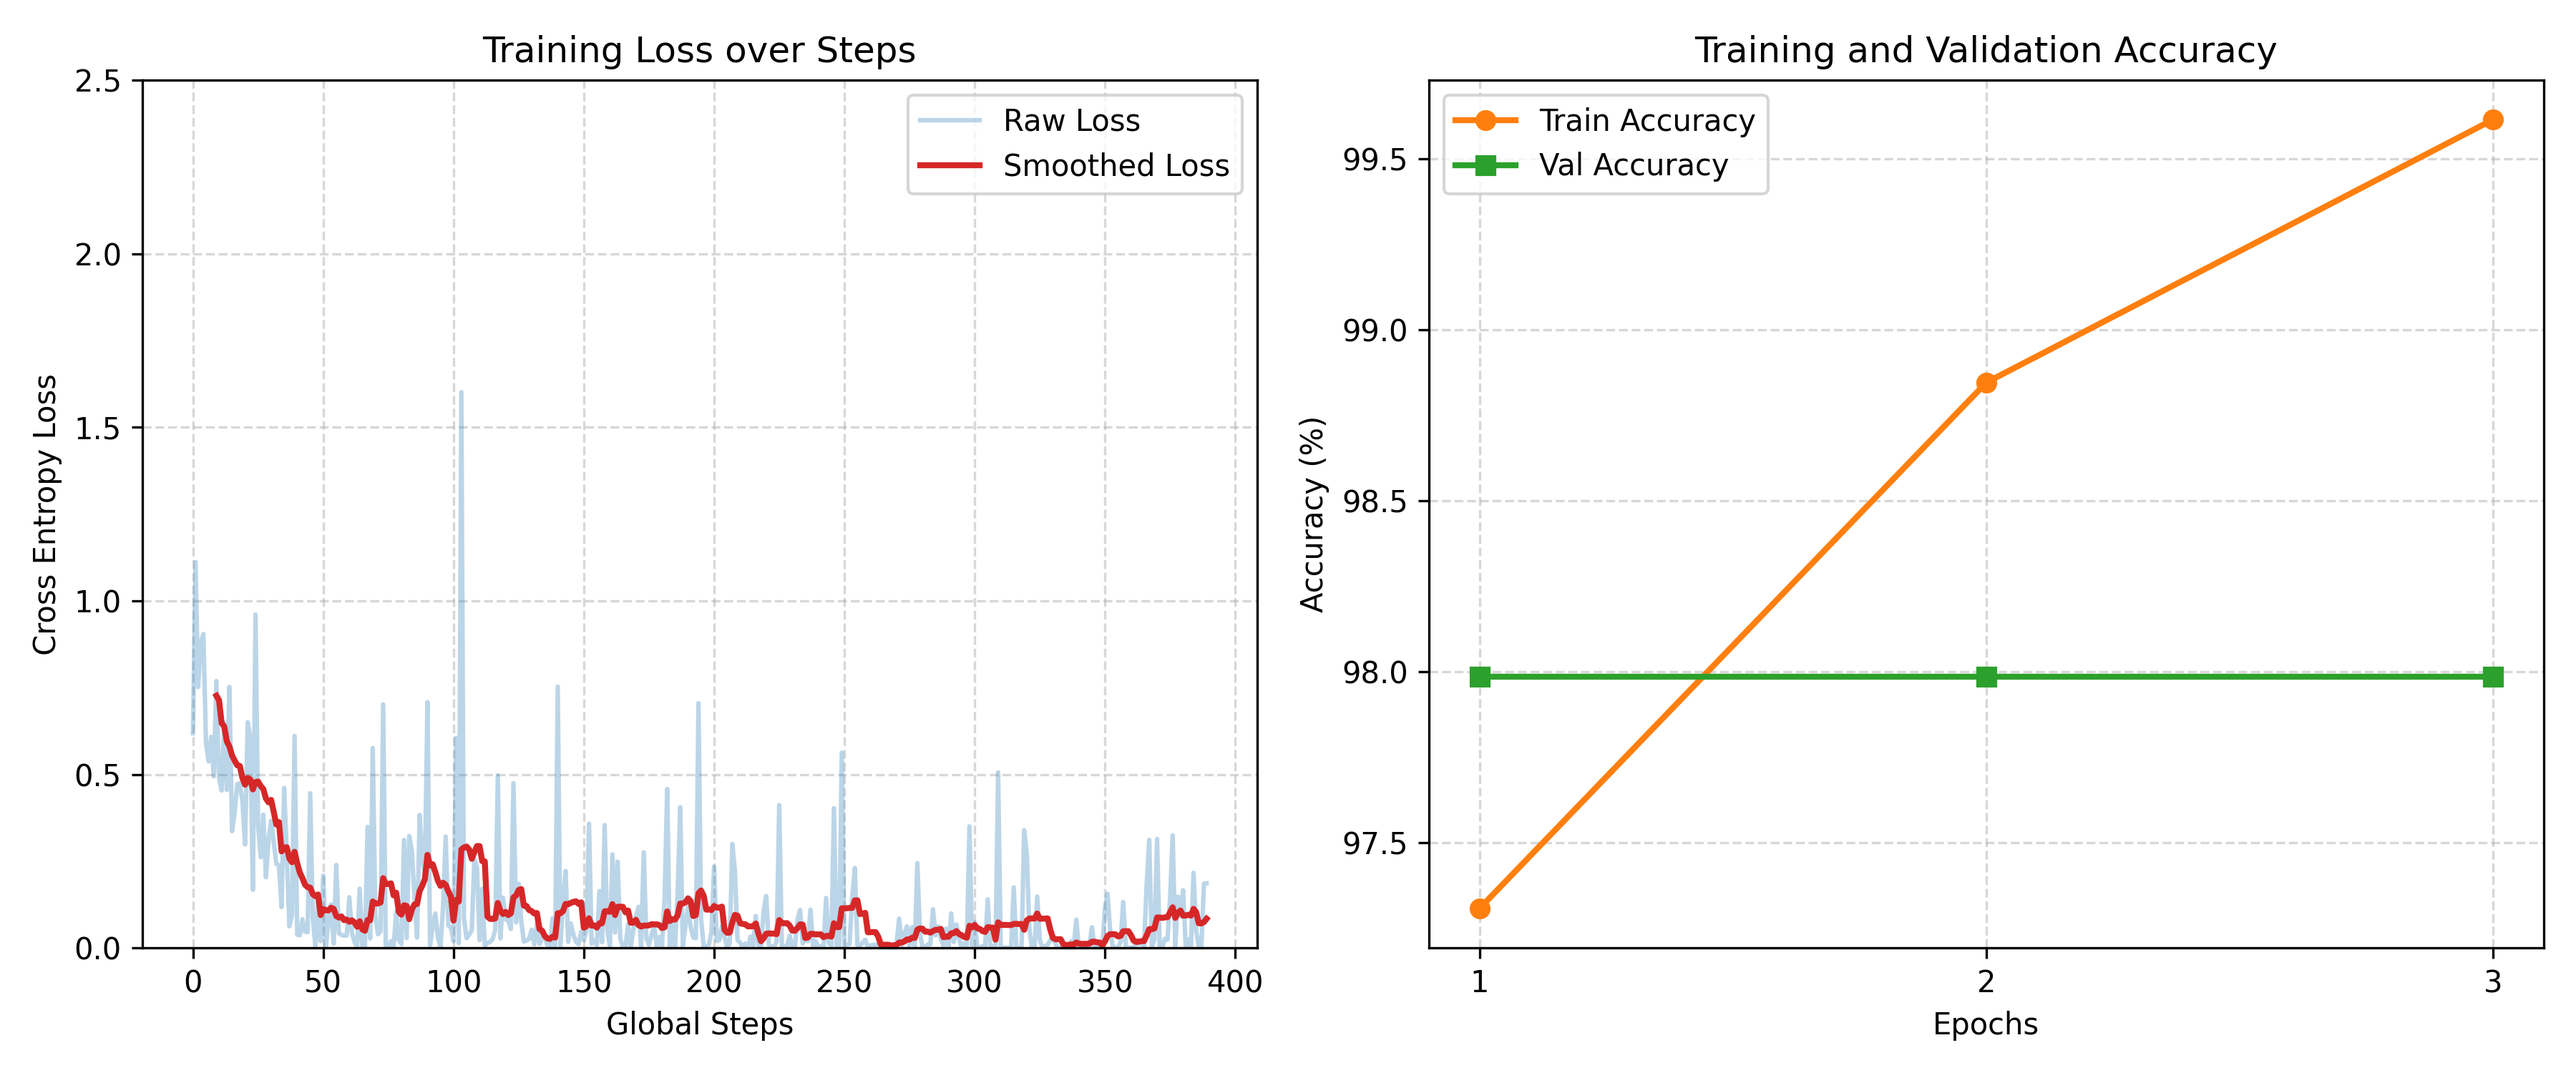
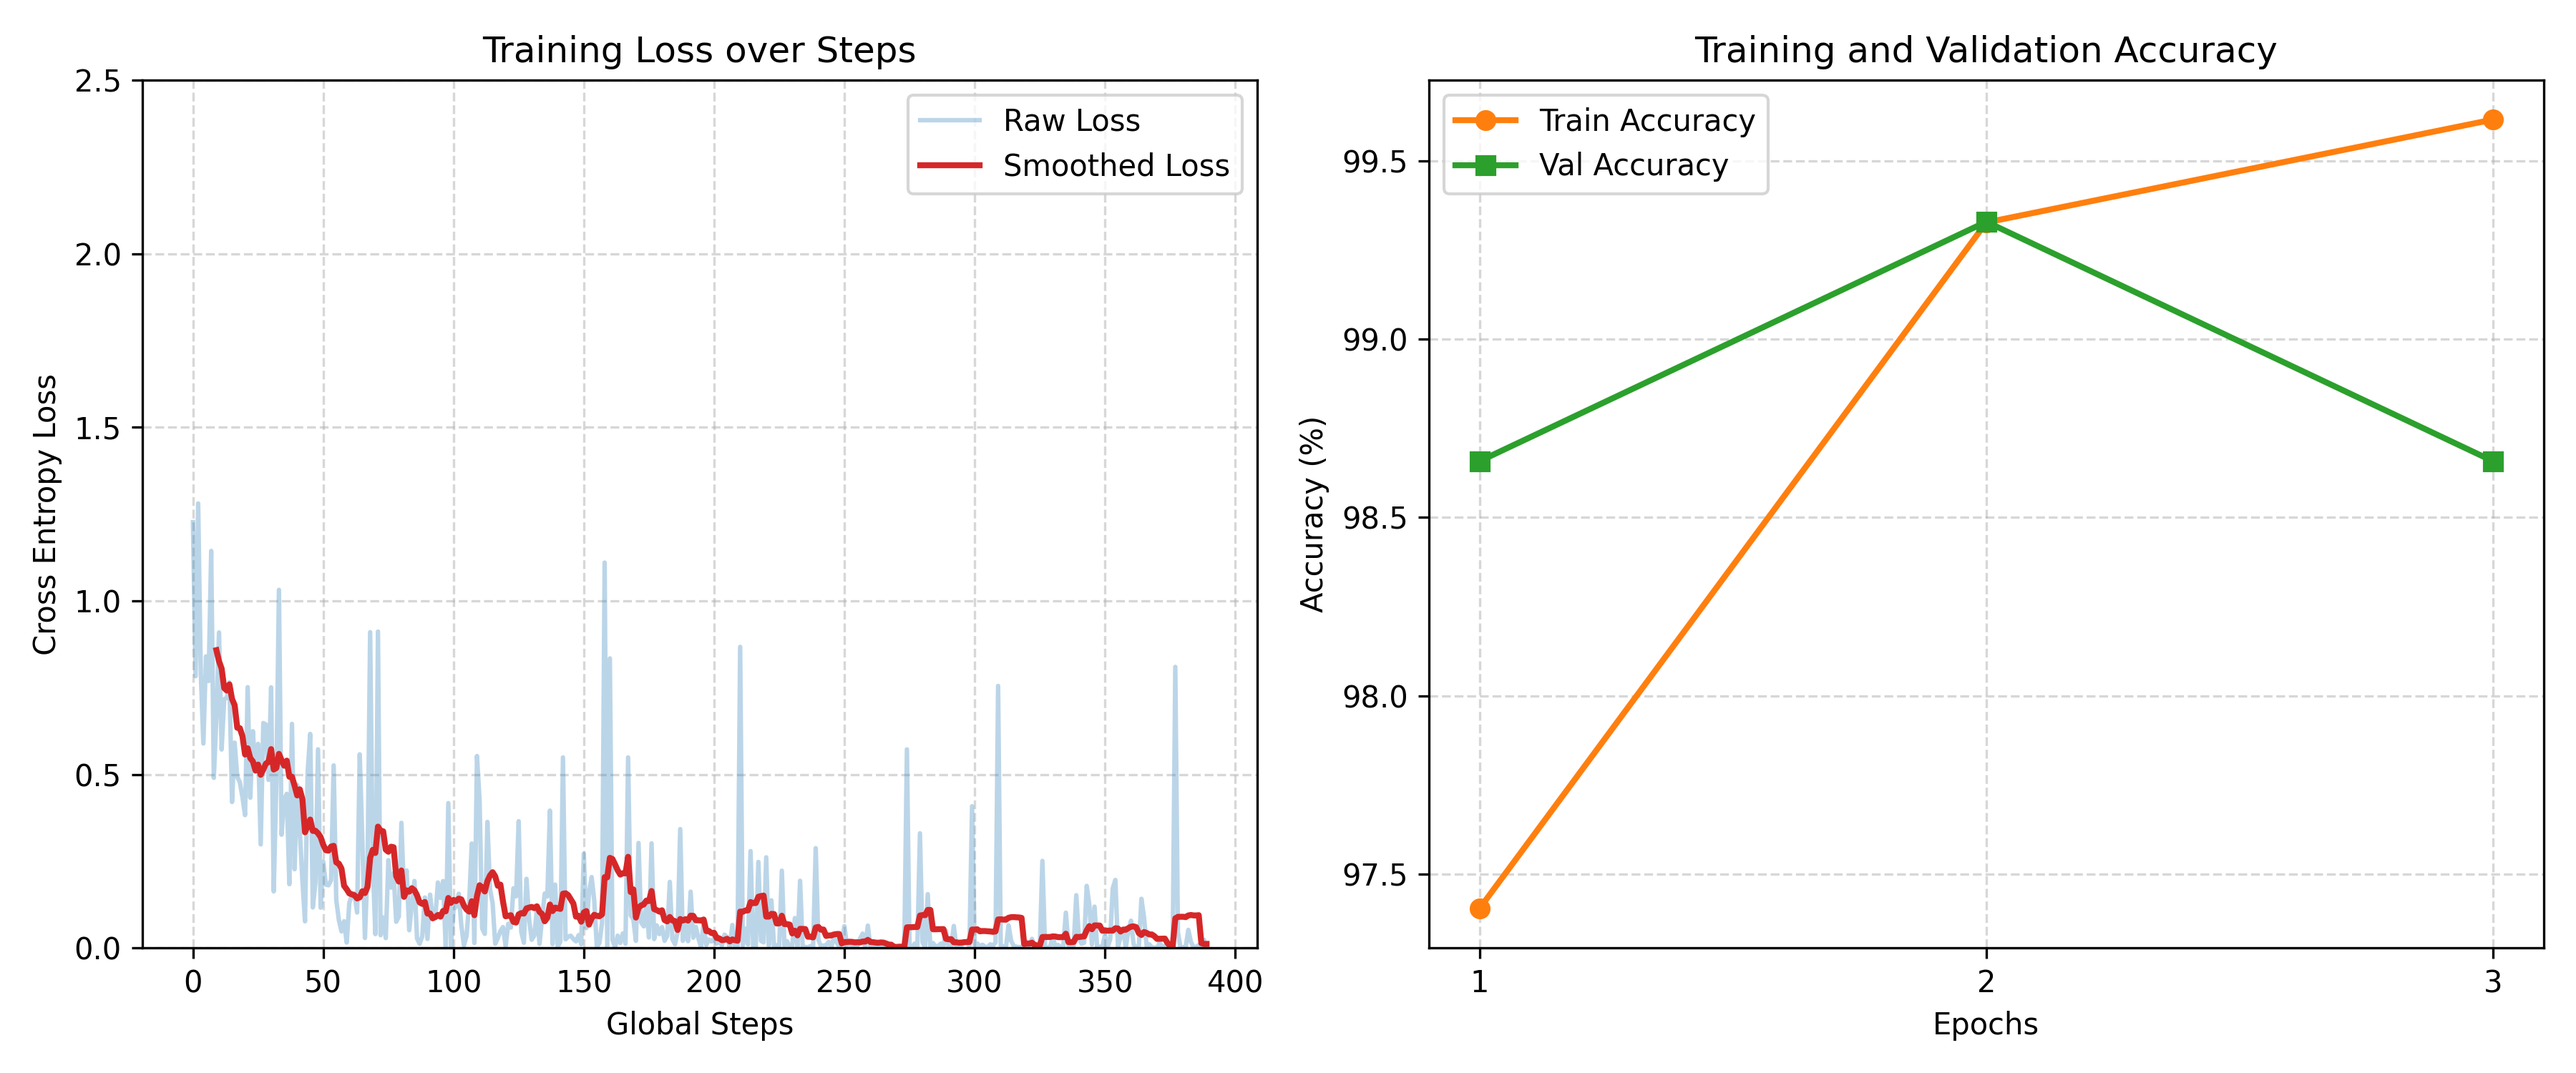
垃圾短信分类的lora微调

diff --git a/scripts/run_lora_classifier.py b/scripts/run_lora_classifier.py
@@ -1,19 +1,20 @@
 import os
 import sys
-import time # 【新增】
+import time # 【新增】用于记录每轮训练耗时
 import torch
 import torch.nn.functional as F
-import matplotlib.pyplot as plt 
+import matplotlib.pyplot as plt
 import numpy as np
-from sklearn.metrics import classification_report, confusion_matrix # 【新增】
+from sklearn.metrics import classification_report, confusion_matrix # 【新增】用于深度评估
 
-# 将项目根目录加入系统路径，确保能顺利导入 src 和 config
+# 动态将项目根目录加入系统路径，确保能找到 src 和 config
 sys.path.append(os.path.dirname(os.path.dirname(os.path.abspath(__file__))))
 
-from src.utils.cls_finetune import load_and_modify_cls_model
+from src.utils.lora_cls_finetune import load_and_modify_lora_cls_model
 from src.data.cls_dataloader import get_cls_dataloaders
 from config import cfg
 
+# ================= 基础基座配置 =================
 GPT_CONFIG = {
     'vocab_size': cfg.vocab_size,
     'embed_dim': cfg.embedding_dim,  
@@ -25,20 +26,20 @@ GPT_CONFIG = {
 }
 
 def evaluate_accuracy(model, data_loader, device):
-    """评估准确率"""
+    """评估模型在给定数据集上的准确率"""
     model.eval()
     correct, total = 0, 0
     with torch.no_grad():
         for inputs, targets in data_loader:
             inputs, targets = inputs.to(device), targets.to(device)
-            logits = model(inputs)[:, -1, :] # 提取最后一个 Token
+            logits = model(inputs)[:, -1, :] 
             preds = torch.argmax(logits, dim=-1)
             
             correct += (preds == targets).sum().item()
             total += targets.size(0)
     return correct / total
 
-# 【新增】深度评估函数
+# 【新增】深度评估函数：输出 F1, Precision, Recall 和 混淆矩阵
 def evaluate_comprehensive(model, data_loader, device):
     model.eval()
     all_preds = []
@@ -53,6 +54,7 @@ def evaluate_comprehensive(model, data_loader, device):
             all_preds.extend(preds.cpu().numpy())
             all_targets.extend(targets.cpu().numpy())
             
+    # 假设 0: Normal(正常短信), 1: Spam(垃圾短信)。如果你的标签相反，请对调列表顺序
     report = classification_report(all_targets, all_preds, target_names=['Normal', 'Spam'], digits=4)
     cm = confusion_matrix(all_targets, all_preds)
     
@@ -62,7 +64,7 @@ def train():
     device = torch.device(cfg.device)
     print(f"🔥 当前运行设备: {device}")
     
-    # 1. 准备数据
+    # 1. 准备数据 
     train_csv = "data/cls_raw/train.csv"
     val_csv = "data/cls_raw/validation.csv"
     
@@ -73,25 +75,33 @@ def train():
     )
     print(f">> 数据集加载完毕。统一序列长度: {max_len}")
     
-    # 2. 挂载分类模型
+    # 2. 挂载带 LoRA 的分类模型
     weights_path = "checkpoints/epoch_3.pth" 
-    model = load_and_modify_cls_model(weights_path, GPT_CONFIG, num_classes=2)
+    
+    model = load_and_modify_lora_cls_model(
+        weights_path=weights_path, 
+        config=GPT_CONFIG, 
+        lora_r=8, 
+        lora_alpha=32, 
+        lora_dropout=0.05, 
+        num_classes=2
+    )
     model.to(device)
     
     # 3. 设置优化器
     trainable_params = filter(lambda p: p.requires_grad, model.parameters())
     optimizer = torch.optim.AdamW(trainable_params, lr=cfg.lr, weight_decay=0.1)
     
-    # 定义用于记录训练指标的列表
-    step_losses = []        
-    global_steps = []       
-    train_accuracies = []   
-    val_accuracies = []     
+    # 指标记录列表
+    step_losses = []
+    global_steps = []
+    train_accuracies = []
+    val_accuracies = []
     global_step_counter = 0
 
-    # 4. 训练循环
+    # 4. 训练核心循环
     epochs = cfg.epochs
-    print("🚀 分类微调正式启动...")
+    print("🚀 LoRA 垃圾短信分类微调正式启动...")
     for epoch in range(epochs):
         epoch_start_time = time.time() # 【新增】记录本轮开始时间
         model.train()
@@ -125,15 +135,15 @@ def train():
         # 【修改】打印信息加入了单轮耗时
         print(f"✨ Epoch {epoch+1} 评估 -> 训练集准确率: {train_acc*100:.2f}% | 验证集准确率: {val_acc*100:.2f}% | 耗时: {epoch_end_time - epoch_start_time:.2f} 秒")
         
-    # 5. 保存模型权重
-    os.makedirs("checkpoints", exist_ok=True)
-    save_path = "checkpoints/classifier_finetuned1.pth"
-    torch.save(model.state_dict(), save_path)
-    print(f"🎉 模型权重已安全保存至: {save_path}")
+    # 5. 保存权重
+    save_dir = "checkpoints/lora_finetuned_spam"
+    os.makedirs(save_dir, exist_ok=True)
+    model.save_pretrained(save_dir) 
+    print(f"🎉 LoRA 轻量级权重已安全保存至: {save_dir}")
 
     # ================= 【新增】深度评估报告输出 =================
     print("\n" + "="*50)
-    print("🏆 原局部微调：最终验证集深度评估报告 (Validation Report)")
+    print("🏆 LoRA 微调：最终验证集深度评估报告 (Validation Report)")
     print("="*50)
     final_report, final_cm = evaluate_comprehensive(model, val_loader, device)
     print(final_report)
@@ -143,17 +153,17 @@ def train():
     print(final_cm)
     print("="*50 + "\n")
 
-    # ================= 绘图与保存逻辑 =================
-    print("📊 正在生成训练指标可视化图表...")
-    os.makedirs("output", exist_ok=True) 
+    # ================= 图表可视化部分 =================
+    print("📊 正在生成 LoRA 训练指标可视化图表...")
+    os.makedirs("output", exist_ok=True)
     
     plt.figure(figsize=(12, 5))
 
-    # 子图 1 (Loss 曲线)
+    # 子图 1: Loss 曲线
     plt.subplot(1, 2, 1)
-    plt.plot(global_steps, step_losses, label='Raw Loss', color='#1f77b4', alpha=0.3)
+    plt.plot(global_steps, step_losses, label='LoRA Raw Loss', color='#1f77b4', alpha=0.3)
     
-    window_size = 10 
+    window_size = 10
     if len(step_losses) >= window_size:
         smoothed_losses = np.convolve(step_losses, np.ones(window_size)/window_size, mode='valid')
         smoothed_steps = global_steps[window_size-1:]
@@ -161,28 +171,28 @@ def train():
 
     plt.xlabel('Global Steps')
     plt.ylabel('Cross Entropy Loss')
-    plt.title('Training Loss over Steps')
+    plt.title('LoRA Training Loss (Spam Detection)')
     plt.ylim(0, 2.5) 
     plt.grid(True, linestyle='--', alpha=0.5)
     plt.legend()
 
-    # 子图 2: 绘制 Accuracy 曲线 
+    # 子图 2: Accuracy 曲线
     plt.subplot(1, 2, 2)
     epochs_range = range(1, epochs + 1)
     plt.plot(epochs_range, train_accuracies, label='Train Accuracy', marker='o', color='#ff7f0e', linewidth=2)
     plt.plot(epochs_range, val_accuracies, label='Val Accuracy', marker='s', color='#2ca02c', linewidth=2)
     plt.xlabel('Epochs')
     plt.ylabel('Accuracy (%)')
-    plt.title('Training and Validation Accuracy')
-    plt.xticks(epochs_range) 
+    plt.title('LoRA Train & Val Accuracy')
+    plt.xticks(epochs_range)
     plt.grid(True, linestyle='--', alpha=0.5)
     plt.legend()
 
     plt.tight_layout()
-    plot_save_path = "output/cls_training.png"
+    plot_save_path = "output/lora_cls_training.png"
     plt.savefig(plot_save_path, dpi=300)
-    plt.close() 
-    print(f"🖼 可视化图表已成功保存至: {plot_save_path}")
+    plt.close()
+    print(f"🖼 LoRA 可视化图表已成功保存至: {plot_save_path}")
 
 if __name__ == "__main__":
     train()

diff --git a/src/utils/lora_cls_finetune.py b/src/utils/lora_cls_finetune.py
@@ -1,0 +1,60 @@
+import torch
+import torch.nn as nn
+from peft import LoraConfig, get_peft_model
+from src.models.gpt_model import GPTModel
+
+def load_and_modify_lora_cls_model(weights_path, config, lora_r=8, lora_alpha=32, lora_dropout=0.05, num_classes=2):
+    """
+    加载自定义GPT模型，并使用 PEFT(LoRA) 将其改造成参数高效的分类器。
+    
+    参数:
+        weights_path: 预训练基座模型权重的路径
+        config: GPT 模型的基础超参数字典
+        lora_r: LoRA 的秩 (Rank)，默认 8
+        lora_alpha: LoRA 的缩放系数，默认 32
+        lora_dropout: LoRA 层的 dropout，默认 0.05
+        num_classes: 分类任务的类别数，默认为 2
+    """
+    print("1. 正在初始化 GPT 基座模型骨架...")
+    model = GPTModel(
+        vocab_size=config['vocab_size'],
+        embed_dim=config['embed_dim'],
+        context_len=config['context_len'],
+        dropout=config['dropout'],
+        num_heads=config['num_heads'],
+        bias=config['bias'],
+        num_layers=config['num_layers']
+    )
+    
+    print(f"2. 正在加载预训练权重: {weights_path}")
+    state_dict = torch.load(weights_path, map_location="cpu", weights_only=True)
+    model.load_state_dict(state_dict)
+    print(">> 预训练基座权重加载成功！")
+
+    print("3. 开始执行 LoRA 架构重构...")
+    # A. 替换原本的生成式输出层为二分类头
+    # 【注意】这一步必须在 get_peft_model 之前完成
+    model.output = nn.Linear(config['embed_dim'], num_classes, bias=False) 
+
+    # B. 配置 LoRA 挂载规则
+    lora_config = LoraConfig(
+        r=lora_r,
+        lora_alpha=lora_alpha,
+        # 精准定位到 attention.py 中定义的独立线性层
+        target_modules=["w_q", "w_k", "w_v"], 
+        
+        # modules_to_save 强制要求 PEFT 保留并训练分类头
+        modules_to_save=["output"], 
+        lora_dropout=lora_dropout,
+        bias="none",
+    )
+    
+    # C. 使用 PEFT 包装模型，自动冻结原参数并注入旁路矩阵
+    model = get_peft_model(model, lora_config)
+    
+    # 打印参数对比日志，直观展示参数压缩效果
+    print("\n" + "="*50)
+    model.print_trainable_parameters()
+    print("="*50 + "\n")
+    
+    return model
